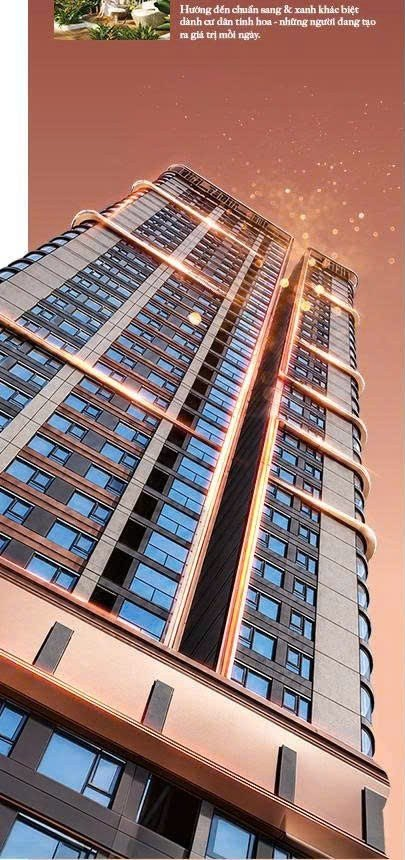
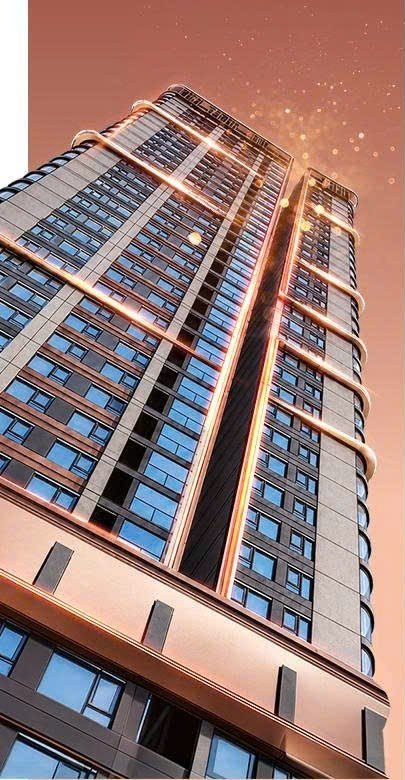
Restyle landing: navy/beige/gold palette, serif headings, price card
Match the reference look: Playfair Display headings with gold kicker,
alternating navy and beige sections, navy label column in the facts
table, gold/navy buttons, a highlighted price card in the pricing block.
The importer also applies header/link colours, sticky header and cleans
leftover custom CSS; the overview tower image is re-cropped.

Claude-Session: https://claude.ai/code/session_01C6GaLoDUJ3wuZQYECWsHWh

diff --git a/wp-content/themes/flatsome-child/assets/css/landing.css b/wp-content/themes/flatsome-child/assets/css/landing.css
@@ -588,3 +588,98 @@ div.bds-video { cursor: default; }
 	#logo img { max-height: 52px !important; width: auto; }
 	.header-main .nav > li.header-button-1 { display: none; }
 }
+
+/* ==========================================================================
+   Phong cách "lux": navy – kem – vàng, tiêu đề serif (trang landing)
+   ========================================================================== */
+.bds-lux {
+	--bds-gold: #e6c77f;
+	--bds-serif: "Playfair Display", Georgia, "Times New Roman", serif;
+}
+.bds-lux h1, .bds-lux h2, .bds-lux h3,
+.bds-lux .section-title-main,
+.bds-lux .bds-hero__title,
+.bds-lux .bds-heading { font-family: var(--bds-serif); letter-spacing: .01em; }
+
+/* Dòng nhỏ phía trên tiêu đề mục */
+.bds-kicker {
+	margin: 0 0 6px;
+	color: var(--bds-accent);
+	font-size: .85rem;
+	font-weight: 700;
+	letter-spacing: .28em;
+	text-transform: uppercase;
+}
+/* Tiêu đề mục (phần tử Title của Flatsome) */
+.bds-lux .bds-title .section-title-main {
+	color: var(--bds-primary);
+	font-size: clamp(1.7rem, 3.4vw, 2.6rem);
+	font-weight: 700;
+	line-height: 1.25;
+	text-transform: uppercase;
+}
+.bds-lux .bds-title--light .section-title-main,
+.bds-lux .dark .bds-title .section-title-main { color: #fff; }
+.bds-lux .bds-title .section-title b { height: 1px; background: var(--bds-accent); opacity: .7; }
+.bds-lux .section-title-container { margin-bottom: 28px; }
+
+/* Nút */
+.bds-lux .button { border-radius: 6px; letter-spacing: .04em; }
+.bds-lux .button.secondary { background-color: var(--bds-accent); border-color: var(--bds-accent); color: var(--bds-primary); }
+.bds-lux .button.secondary:hover { filter: brightness(1.06); }
+.bds-lux .button.primary:not(.is-outline) { background-color: var(--bds-primary); border: 1px solid rgba(255, 255, 255, .35); color: #fff; }
+
+/* Banner */
+.bds-lux .bds-fs-hero .bds-eyebrow { border-radius: 4px; background: var(--bds-accent); color: var(--bds-primary); }
+.bds-lux .bds-hero__title { font-size: clamp(2.4rem, 5.6vw, 4.4rem); font-weight: 700; line-height: 1.08; }
+.bds-lux .bds-hero__price { color: var(--bds-gold); font-family: var(--bds-serif); }
+.bds-lux .bds-stat strong { color: var(--bds-gold); font-family: var(--bds-serif); }
+.bds-lux .bds-card { border-top: 4px solid var(--bds-accent); border-radius: 8px; }
+.bds-lux .bds-form__title { font-family: var(--bds-serif); text-transform: none; }
+
+/* Bảng thông số tổng quan – nhãn nền navy như bản tham chiếu */
+.bds-lux .bds-facts { border: 0; }
+.bds-lux .bds-facts__row { gap: 0; margin-bottom: 3px; padding: 0; border: 0; background: #fff; }
+.bds-lux .bds-facts dt { flex: 0 0 36%; padding: 12px 14px; background: var(--bds-primary); color: #fff; font-weight: 700; }
+.bds-lux .bds-facts dd { padding: 12px 16px; color: var(--bds-text); font-weight: 500; }
+.bds-lux .bds-heading { color: var(--bds-primary); font-size: clamp(1.7rem, 3.4vw, 2.6rem); text-transform: uppercase; }
+.bds-lux .bds-heading::after { background: var(--bds-accent); }
+
+/* Vị trí (nền navy) */
+.bds-lux .dark .bds-connect li { background: rgba(255, 255, 255, .06); border-left-color: var(--bds-accent); box-shadow: none; color: #fff; }
+.bds-lux .dark .bds-connect strong { color: var(--bds-gold); font-family: var(--bds-serif); }
+
+/* Thẻ tiện ích, chính sách, lý do, chủ đầu tư */
+.bds-lux .bds-feature { border-color: #e6ddc9; background: #fff; }
+.bds-lux .bds-feature__num { color: var(--bds-accent); font-family: var(--bds-serif); }
+.bds-lux .bds-feature h3, .bds-lux .bds-policy h3 { color: var(--bds-primary); }
+.bds-lux .bds-policy { border-top-color: var(--bds-accent); border-radius: 8px; }
+.bds-lux .bds-policy > i { background: var(--bds-primary); color: var(--bds-gold); }
+.bds-lux .bds-reason { border-color: rgba(230, 199, 127, .35); background: rgba(255, 255, 255, .03); }
+.bds-lux .bds-reason__num { background: transparent; border: 1px solid var(--bds-accent); color: var(--bds-gold); font-family: var(--bds-serif); }
+.bds-lux .bds-dev-point { background: var(--bds-beige); border-left-color: var(--bds-accent); }
+.bds-lux .bds-plan__title { font-family: var(--bds-serif); }
+
+/* Thẻ giá */
+.bds-price-card {
+	max-width: 720px;
+	margin: 0 auto 40px;
+	padding: 34px 24px;
+	border-radius: 10px;
+	background: var(--bds-primary);
+	color: #fff;
+	text-align: center;
+}
+.bds-price-card__label { margin: 0; font-size: 1.1rem; letter-spacing: .12em; text-transform: uppercase; opacity: .9; }
+.bds-price-card__value { margin: 6px 0; color: var(--bds-gold, #e6c77f); font-family: var(--bds-serif, serif); font-size: clamp(2.2rem, 5vw, 3.4rem); font-weight: 700; line-height: 1.15; }
+.bds-price-card__note { margin: 0; opacity: .85; }
+
+/* Tab nhà mẫu, FAQ */
+.bds-lux .nav-pills > li > a { border: 1px solid var(--bds-accent); border-radius: 6px; color: var(--bds-primary); }
+.bds-lux .nav-pills > li.active > a { background: var(--bds-primary); border-color: var(--bds-primary); color: #fff; }
+.bds-lux .accordion-title { font-family: var(--bds-serif); font-size: 1.05rem; color: var(--bds-primary); }
+.bds-lux .accordion-title.active { color: var(--bds-accent); }
+
+/* Header */
+.bds-lux .header-main .nav > li > a { letter-spacing: .06em; }
+.bds-lux .stuck .header-main, .bds-lux .header-wrapper.stuck { background-color: var(--bds-primary) !important; }

diff --git a/wp-content/themes/flatsome-child/inc/importer.php b/wp-content/themes/flatsome-child/inc/importer.php
@@ -144,7 +144,12 @@ function bds_tx( $value ) {
  * @return string
  */
 function bds_sc_title( $text, $light = false ) {
-	return sprintf( '[title style="center" text="%1$s" tag_name="h2" size="130"%2$s]', bds_sc( $text ), $light ? ' color="rgb(255,255,255)"' : '' );
+	return sprintf(
+		"<p class=\"bds-kicker text-center\">%1$s</p>\n[title style=\"center\" text=\"%2$s\" tag_name=\"h2\" size=\"160\" class=\"bds-title%3$s\"]",
+		bds_tx( bds_opt( 'hero_title' ) ),
+		bds_sc( $text ),
+		$light ? ' bds-title--light' : ''
+	);
 }
 
 /**
@@ -165,15 +170,16 @@ function bds_import_blocks() {
 	$blocks['688-banner'] = array(
 		'688 – 01 Banner',
 		sprintf(
-			'[section label="Banner" bg="%1$d" bg_size="original" bg_overlay="rgba(40, 12, 9, 0.72)" dark="true" padding="140px" padding__sm="100px" height="100vh" height__sm="0px" class="bds-fs-hero"]
+			'[section label="Banner" bg="%1$d" bg_size="original" bg_overlay="rgba(11, 23, 52, 0.55)" dark="true" padding="140px" padding__sm="100px" height="100vh" height__sm="0px" class="bds-fs-hero"]
 [row v_align="middle"]
 [col span="7" span__sm="12"]
 <p class="bds-eyebrow">%2$s</p>
 <h1 class="bds-hero__title">%3$s</h1>
 <p class="bds-hero__subtitle">%4$s</p>
 <p class="bds-hero__price">%5$s</p>
-[button text="%6$s" color="secondary" radius="99" link="#dang-ky"]
-[button text="%7$s" color="white" style="outline" radius="99" icon="icon-phone" link="tel:%8$s"]
+[button text="%6$s" color="secondary" radius="6" link="#dang-ky"]
+[button text="Khám phá dự án" color="primary" radius="6" link="#tong-quan"]
+[button text="%7$s" color="white" style="outline" radius="6" icon="icon-phone" link="tel:%8$s"]
 [/col]
 [col span="5" span__sm="12"]
 [bds_lead_form title="Nhận bảng giá mới nhất" button="Gửi thông tin" source="Hero" card="1"]
@@ -205,7 +211,7 @@ function bds_import_blocks() {
 	$blocks['688-tong-quan'] = array(
 		'688 – 02 Tổng quan',
 		sprintf(
-			'[section label="Tổng quan" padding="80px"]
+			'[section label="Tổng quan" bg_color="{{BEIGE}}" padding="90px"]
 [scroll_to title="Tổng quan" link="#tong-quan" bullet="false"]
 [row v_align="middle"]
 [col span="7" span__sm="12"]
@@ -236,7 +242,7 @@ function bds_import_blocks() {
 	$blocks['688-vi-tri'] = array(
 		'688 – 03 Vị trí',
 		sprintf(
-			'[section label="Vị trí" bg_color="rgb(250, 244, 240)" padding="80px"]
+			'[section label="Vị trí" bg_color="{{NAVY}}" dark="true" padding="90px"]
 [scroll_to title="Vị trí" link="#vi-tri" bullet="false"]
 %1$s
 <p class="bds-lead text-center">%2$s</p>
@@ -250,7 +256,7 @@ function bds_import_blocks() {
 [/col]
 [/row]
 [/section]',
-			bds_sc_title( bds_opt( 'location_title' ) ),
+			bds_sc_title( bds_opt( 'location_title' ), true ),
 			bds_tx( bds_opt( 'location_text' ) ),
 			$points,
 			bds_mid( 'location_image' )
@@ -267,7 +273,7 @@ function bds_import_blocks() {
 	$blocks['688-tien-ich'] = array(
 		'688 – 04 Tiện ích',
 		sprintf(
-			'[section label="Tiện ích" padding="80px"]
+			'[section label="Tiện ích" padding="90px"]
 [scroll_to title="Tiện ích" link="#tien-ich" bullet="false"]
 %1$s
 [ux_image id="%2$d" lightbox="true" depth="2"]
@@ -296,10 +302,10 @@ function bds_import_blocks() {
 	$blocks['688-mat-bang'] = array(
 		'688 – 05 Mặt bằng',
 		sprintf(
-			'[section label="Mặt bằng" bg_color="rgb(250, 244, 240)" padding="80px"]
+			'[section label="Mặt bằng" bg_color="{{BEIGE}}" padding="90px"]
 [scroll_to title="Mặt bằng" link="#mat-bang" bullet="false"]
 %1$s
-[row col_bg="rgb(255,255,255)" col_bg_radius="10" padding="20px 20px 10px 20px"]
+[row col_bg="rgb(255,255,255)" col_bg_radius="8" padding="18px 18px 8px 18px"]
 %2$s[/row]
 [/section]',
 			bds_sc_title( bds_opt( 'floorplans_title' ) ),
@@ -330,13 +336,13 @@ function bds_import_blocks() {
 	$blocks['688-nha-mau'] = array(
 		'688 – 06 Nhà mẫu',
 		sprintf(
-			'[section label="Nhà mẫu" padding="80px"]
+			'[section label="Nhà mẫu" padding="90px"]
 [scroll_to title="Nhà mẫu" link="#nha-mau" bullet="false"]
 %1$s
 <p class="bds-lead text-center">%2$s</p>
 [tabgroup style="pills" align="center" nav_style="normal"]
 %3$s[/tabgroup]
-<p class="text-center">[button text="Đăng ký tham quan nhà mẫu" color="secondary" radius="99" link="#dang-ky"]</p>
+<p class="text-center">[button text="Đăng ký tham quan nhà mẫu" color="secondary" radius="6" link="#dang-ky"]</p>
 [/section]',
 			bds_sc_title( bds_opt( 'modelhouse_title' ) ),
 			bds_tx( bds_opt( 'modelhouse_text' ) ),
@@ -364,7 +370,7 @@ function bds_import_blocks() {
 	$blocks['688-hinh-anh'] = array(
 		'688 – 07 Hình ảnh & Video',
 		sprintf(
-			'[section label="Hình ảnh & Video" bg_color="rgb(90, 31, 26)" dark="true" padding="80px"]
+			'[section label="Hình ảnh & Video" bg_color="{{NAVY}}" dark="true" padding="90px"]
 [scroll_to title="Hình ảnh" link="#hinh-anh" bullet="false"]
 %1$s
 [ux_gallery ids="%2$s" style="normal" columns="4" columns__sm="2" col_spacing="xsmall" image_height="75%%" image_size="medium_large"]
@@ -391,15 +397,22 @@ function bds_import_blocks() {
 	$blocks['688-chinh-sach'] = array(
 		'688 – 08 Chính sách bán hàng',
 		sprintf(
-			'[section label="Chính sách" bg_color="rgb(250, 244, 240)" padding="80px"]
+			'[section label="Chính sách" bg_color="{{BEIGE}}" padding="90px"]
 [scroll_to title="Giá bán" link="#chinh-sach" bullet="false"]
 %1$s
+<div class="bds-price-card">
+<p class="bds-price-card__label">Giá bán chỉ từ</p>
+<p class="bds-price-card__value">%3$s</p>
+<p class="bds-price-card__note">%4$s</p>
+</div>
 [row]
 %2$s[/row]
-<p class="text-center">[button text="Nhận chính sách chi tiết" color="secondary" radius="99" link="#dang-ky"]</p>
+<p class="text-center">[button text="Nhận chính sách chi tiết" color="secondary" radius="6" link="#dang-ky"]</p>
 [/section]',
 			bds_sc_title( bds_opt( 'pricing_title' ) ),
-			$pol
+			$pol,
+			bds_tx( bds_opt( 'price_from' ) ),
+			bds_tx( bds_opt( 'price_note' ) )
 		),
 		'chinh-sach',
 		'Giá bán',
@@ -413,7 +426,7 @@ function bds_import_blocks() {
 	$blocks['688-ly-do'] = array(
 		'688 – 09 Lý do sở hữu',
 		sprintf(
-			'[section label="Lý do sở hữu" bg_color="rgb(90, 31, 26)" dark="true" padding="80px"]
+			'[section label="Lý do sở hữu" bg_color="{{NAVY}}" dark="true" padding="90px"]
 %1$s
 [row]
 %2$s[/row]
@@ -433,7 +446,7 @@ function bds_import_blocks() {
 	$blocks['688-chu-dau-tu'] = array(
 		'688 – 10 Chủ đầu tư',
 		sprintf(
-			'[section label="Chủ đầu tư" padding="80px"]
+			'[section label="Chủ đầu tư" padding="90px"]
 [scroll_to title="Chủ đầu tư" link="#chu-dau-tu" bullet="false"]
 %1$s
 <p class="bds-lead text-center">%2$s</p>
@@ -459,7 +472,7 @@ function bds_import_blocks() {
 	$blocks['688-faq'] = array(
 		'688 – 11 Câu hỏi thường gặp',
 		sprintf(
-			'[section label="FAQ" bg_color="rgb(250, 244, 240)" padding="80px"]
+			'[section label="FAQ" bg_color="{{BEIGE}}" padding="90px"]
 [scroll_to title="FAQ" link="#faq" bullet="false"]
 %1$s
 [row h_align="center"]
@@ -489,7 +502,7 @@ function bds_import_blocks() {
 	$blocks['688-dang-ky'] = array(
 		'688 – 12 Đăng ký',
 		sprintf(
-			'[section label="Đăng ký" bg="%1$d" bg_overlay="rgba(40, 12, 9, 0.82)" dark="true" padding="90px"]
+			'[section label="Đăng ký" bg="%1$d" bg_overlay="rgba(11, 23, 52, 0.86)" dark="true" padding="90px"]
 [scroll_to title="Liên hệ" link="#dang-ky" bullet="false"]
 [row v_align="middle"]
 [col span="6" span__sm="12"]
@@ -515,6 +528,13 @@ function bds_import_blocks() {
 		'',
 	);
 
+	foreach ( $blocks as $slug => $b ) {
+		$blocks[ $slug ][1] = str_replace(
+			array( '{{NAVY}}', '{{BEIGE}}' ),
+			array( bds_opt( 'color_primary' ), bds_opt( 'color_beige' ) ),
+			$b[1]
+		);
+	}
 	return $blocks;
 }
 
@@ -609,12 +629,10 @@ function bds_import_content() {
 	set_theme_mod( 'header_elements_left', array() );
 	set_theme_mod( 'header_elements_right', array( 'nav', 'button-1' ) );
 	set_theme_mod( 'header_mobile_elements_left', array( 'menu-icon' ) );
-	set_theme_mod( 'header_mobile_elements_right', array( 'button-1' ) );
-	set_theme_mod( 'mobile_sidebar', array( 'nav', 'button-1' ) );
+		set_theme_mod( 'mobile_sidebar', array( 'nav', 'button-1' ) );
 	set_theme_mod( 'header_button_1', bds_opt( 'nav_cta' ) ? bds_opt( 'nav_cta' ) : 'Nhận bảng giá' );
 	set_theme_mod( 'header_button_1_link', '#dang-ky' );
-	set_theme_mod( 'header_button_1_radius', '99px' );
-	set_theme_mod( 'header_button_1_color', 'secondary' );
+		set_theme_mod( 'header_button_1_color', 'secondary' );
 	set_theme_mod( 'color_primary', bds_opt( 'color_primary' ) );
 	set_theme_mod( 'color_secondary', bds_opt( 'color_accent' ) );
 	set_theme_mod( 'nav_uppercase', 1 );
@@ -623,6 +641,15 @@ function bds_import_content() {
 	// Header đặc (khi cuộn / trang khác): nền màu chủ đạo, chữ sáng.
 	set_theme_mod( 'header_color', 'dark' );
 	set_theme_mod( 'header_bg', bds_opt( 'color_primary' ) );
+	set_theme_mod( 'type_headings_color', bds_opt( 'color_primary' ) );
+	set_theme_mod( 'color_links', bds_opt( 'color_primary' ) );
+	set_theme_mod( 'color_links_hover', bds_opt( 'color_accent' ) );
+	set_theme_mod( 'header_button_1_radius', '6px' );
+	set_theme_mod( 'header_sticky', 1 );
+	set_theme_mod( 'logo_width', 90 );
+	set_theme_mod( 'header_mobile_elements_right', array() );
+	set_theme_mod( 'html_custom_css', '' );
+	set_theme_mod( 'topbar_left', '' );
 
 	// Tắt chế độ template/menu riêng của theme con: từ giờ dùng chuẩn Flatsome.
 	set_theme_mod( 'bds_landing_front', 0 );

diff --git a/wp-content/themes/flatsome-child/inc/helpers.php b/wp-content/themes/flatsome-child/inc/helpers.php
@@ -15,8 +15,9 @@ defined( 'ABSPATH' ) || exit;
 function bds_defaults() {
 	return array(
 		// Chung.
-		'color_primary'      => '#5a1f1a',
-		'color_accent'       => '#c8875f',
+		'color_primary'      => '#0b1734',
+		'color_accent'       => '#c9a45c',
+		'color_beige'        => '#eae2d2',
 		'hotline'            => '0965 078 229',
 		'zalo'               => '0965078229',
 		'messenger'          => '',
@@ -89,6 +90,10 @@ function bds_defaults() {
 		'show_faq'           => 1,
 		'faq_title'          => 'Câu hỏi thường gặp',
 		'faq'                => "Dự án The Collection 688 nằm ở đâu? | Lô 198 Quốc lộ 13 (Đại lộ Bình Dương), khu phố 1, phường Thuận Giao, TP.HCM (khu vực Thuận Giao, TP. Thuận An cũ), cách ga C6 Metro số 2 khoảng 300m.\nChủ đầu tư dự án là ai? | Công ty Cổ phần DICERA Holdings (HoSE: DC4), đồng thời là tổng thầu EPC của dự án.\nDự án có bao nhiêu sản phẩm? | 688 sản phẩm gồm 549 căn hộ chung cư (1PN+, 2PN, 3PN, Duplex, Penthouse), 133 căn hộ thương gia (có căn 2PN, 3PN sân vườn) và 6 shophouse.\nGiá bán và booking thế nào? | Giá chỉ từ 43,688 triệu/m². Booking 30 triệu/suất, khách hàng booking sớm được chiết khấu 3%; tổng chiết khấu lên đến 12% trên tổng giá trị căn hộ. Liên hệ hotline để nhận bảng giá chi tiết từng căn.\nCó những phương thức thanh toán nào? | Thanh toán chuẩn (chiết khấu 6%), Quốc tế (chiết khấu 3%), Thượng đỉnh (chỉ 0,25%/tháng), thanh toán vượt (chiết khấu đến 11%) và hỗ trợ tài chính với ngân hàng giải ngân đến 60%, ân hạn nợ gốc và hỗ trợ lãi suất 24 tháng.\nKhi nào bàn giao? | Dự kiến Quý II/2029. Căn hộ thương gia bàn giao full nội thất, căn hộ chung cư bàn giao hoàn thiện cơ bản.\nPháp lý dự án đến đâu? | Dự án đã có quy hoạch 1/500, chấp thuận chủ trương đầu tư, chấp thuận nhà đầu tư và báo cáo nghiên cứu khả thi được thẩm định tháng 11/2025.",
+
+		// Thẻ giá (mục Chính sách).
+		'price_from'         => '43,688 triệu/m²',
+		'price_note'         => 'Booking 30 triệu/suất · Chiết khấu 3% khi booking sớm · Tổng chiết khấu đến 12%',
 
 		// Mặt bằng.
 		'show_floorplans'    => 1,

diff --git a/wp-content/themes/flatsome-child/functions.php b/wp-content/themes/flatsome-child/functions.php
@@ -7,7 +7,7 @@
 
 defined( 'ABSPATH' ) || exit;
 
-define( 'BDS_VERSION', '1.0.0' );
+define( 'BDS_VERSION', '1.1.0' );
 define( 'BDS_DIR', get_stylesheet_directory() );
 define( 'BDS_URI', get_stylesheet_directory_uri() );
 
@@ -26,13 +26,14 @@ function bds_enqueue_assets() {
 		return;
 	}
 
+	wp_enqueue_style( 'bds-fonts', 'https://fonts.googleapis.com/css2?family=Playfair+Display:wght@500;600;700&display=swap', array(), null );
 	wp_enqueue_style( 'bds-landing', BDS_URI . '/assets/css/landing.css', array( 'flatsome-main' ), BDS_VERSION );
 
 	$primary = bds_opt( 'color_primary' );
 	$accent  = bds_opt( 'color_accent' );
 	wp_add_inline_style(
 		'bds-landing',
-		sprintf( ':root{--bds-primary:%s;--bds-accent:%s;}', esc_html( $primary ), esc_html( $accent ) )
+		sprintf( ':root{--bds-primary:%s;--bds-accent:%s;--bds-beige:%s;}', esc_html( $primary ), esc_html( $accent ), esc_html( bds_opt( 'color_beige' ) ) )
 	);
 
 	wp_enqueue_script( 'bds-landing', BDS_URI . '/assets/js/landing.js', array(), BDS_VERSION, true );
@@ -94,8 +95,11 @@ add_action( 'flatsome_before_header', 'bds_render_landing_header' );
  * @return array
  */
 function bds_body_class( $classes ) {
-	if ( bds_is_landing_page() && bds_opt( 'own_header' ) ) {
-		$classes[] = 'bds-own-header';
+	if ( bds_is_landing_page() ) {
+		$classes[] = 'bds-lux';
+		if ( bds_opt( 'own_header' ) ) {
+			$classes[] = 'bds-own-header';
+		}
 	}
 	return $classes;
 }

diff --git a/wp-content/themes/flatsome-child/inc/customizer.php b/wp-content/themes/flatsome-child/inc/customizer.php
@@ -88,6 +88,7 @@ function bds_customize_register( $wp_customize ) {
 	$fields = array(
 		'color_primary'    => array( 'bds_general', 'color', 'Màu chủ đạo' ),
 		'color_accent'     => array( 'bds_general', 'color', 'Màu nhấn (nút, điểm nhấn)' ),
+		'color_beige'      => array( 'bds_general', 'color', 'Màu nền mục sáng (xen kẽ)' ),
 		'hotline'          => array( 'bds_general', 'text', 'Hotline' ),
 		'zalo'             => array( 'bds_general', 'text', 'Số Zalo (để trống để ẩn)' ),
 		'messenger'        => array( 'bds_general', 'url', 'Link Messenger, vd https://m.me/tenpage (để trống để ẩn)' ),
@@ -149,6 +150,8 @@ function bds_customize_register( $wp_customize ) {
 
 		'show_pricing'     => array( 'bds_pricing', 'checkbox', 'Hiển thị mục này' ),
 		'pricing_title'    => array( 'bds_pricing', 'text', 'Tiêu đề' ),
+		'price_from'       => array( 'bds_pricing', 'text', 'Thẻ giá: Giá bán chỉ từ' ),
+		'price_note'       => array( 'bds_pricing', 'text', 'Thẻ giá: dòng ghi chú' ),
 		'pricing_items'    => array( 'bds_pricing', 'textarea', 'Chính sách (Tiêu đề | Mô tả)' ),
 
 		'show_reasons'     => array( 'bds_reasons', 'checkbox', 'Hiển thị mục này' ),
